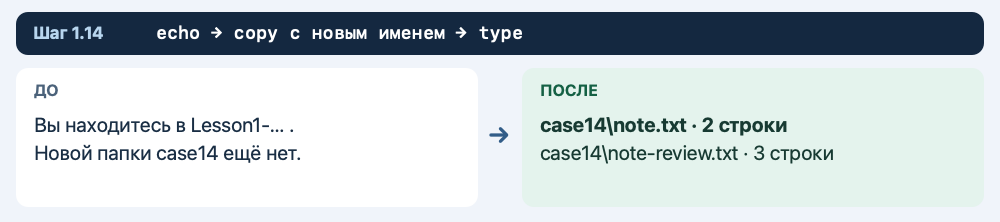
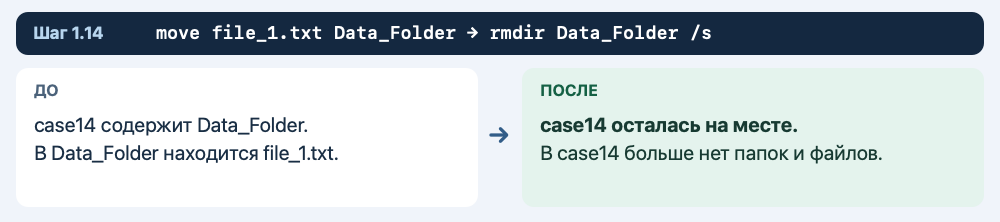
Illustrate the folder before and after removal

diff --git a/cmd-01.md b/cmd-01.md
@@ -4492,7 +4492,7 @@ cd ..
 
 Для блока 14 покажите два снимка CMD. На первом виден `file_1.txt` внутри `Data_Folder` после переноса. На втором видна пустая папка `case14` после удаления.
 
-Покажите последний выполненный блок: два текстовых файла, содержимое копии и строку с путём к вашей учебной папке.
+Покажите два текстовых файла, содержимое копии и путь к учебной папке в контрольном блоке 15 или 30, в зависимости от того, где вы закончили.
 
 Если делаете снимок экрана, оставьте видимыми команду и результат. Имя пользователя в пути можно закрыть.
 
